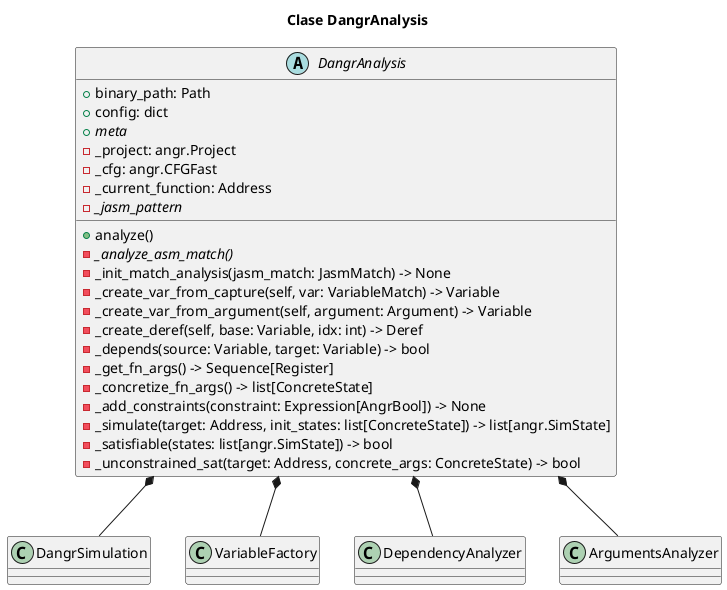
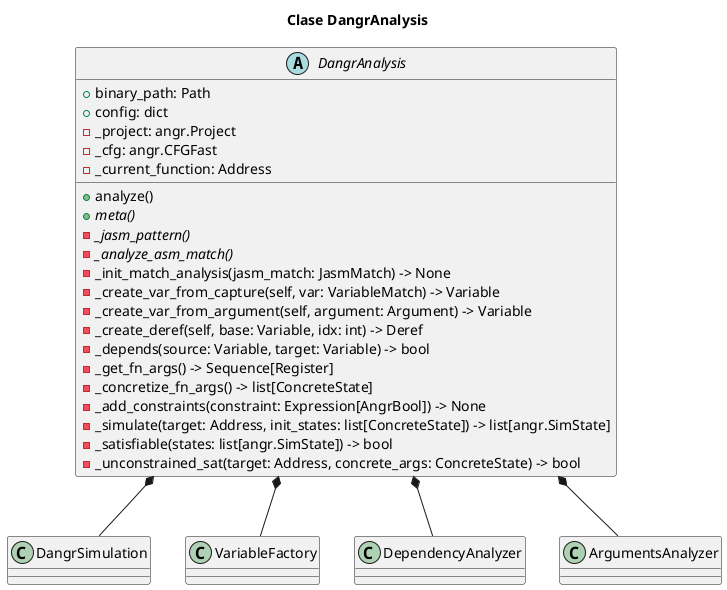
Remove property decorator from jasm_pattern and metadata

Changed region(s): [[0.0908, 0.2136, 0.3934, 0.4271]]

diff --git a/dangr_rt/dangr_rt/dangr_analysis.py b/dangr_rt/dangr_rt/dangr_analysis.py
@@ -197,12 +197,10 @@ class DangrAnalysis(ABC): # pylint: disable=too-many-instance-attributes
         """
         return self._dependency_analyzer.check_dependency(source, target)
 
-    @property
     @abstractmethod
     def _jasm_pattern(self) -> dict:
         pass
 
-    @property
     @abstractmethod
     def meta(self) -> dict:
         pass
@@ -211,7 +209,7 @@ class DangrAnalysis(ABC): # pylint: disable=too-many-instance-attributes
         """
         Template method that performs the analysis given a jasm pattern 
         """
-        jasm_matches = JasmAPI().run(self.binary_path, self._jasm_pattern)
+        jasm_matches = JasmAPI().run(self.binary_path, self._jasm_pattern())
 
         for jasm_match in jasm_matches:
             self._init_match_analysis(jasm_match)

diff --git a/dangr_rt/tests/test_dangr_sw_breakpoint.py b/dangr_rt/tests/test_dangr_sw_breakpoint.py
@@ -48,13 +48,11 @@ class SoftwareBreakpoint(DangrAnalysis):
         super().__init__(binary_path, config)
         self.jasm_pattern = jasm_pattern
 
-    @property
     @override
     def _jasm_pattern(self) -> dict:
         return {'pattern': self.jasm_pattern}
 
 
-    @property
     @override
     def meta(self) -> dict:
         return {}

diff --git a/dangr_rt/tests/test_dangr_hw_breakpoint.py b/dangr_rt/tests/test_dangr_hw_breakpoint.py
@@ -23,12 +23,10 @@ class HardwareBreakpoint(DangrAnalysis):
         super().__init__(binary_path, config)
         self.jasm_pattern = jasm_pattern
 
-    @property
     @override
     def _jasm_pattern(self) -> dict:
         return {'pattern': self.jasm_pattern}
 
-    @property
     @override
     def meta(self) -> dict:
         return {}

diff --git a/dangr_rt/tests/test_dangr_uncontrolled_input.py b/dangr_rt/tests/test_dangr_uncontrolled_input.py
@@ -47,12 +47,10 @@ class UncontrolledInput(DangrAnalysis):
         super().__init__(binary_path, config)
         self.jasm_pattern = jasm_pattern
 
-    @property
     @override
     def _jasm_pattern(self) -> dict:
         return {'pattern': self.jasm_pattern}
 
-    @property
     @override
     def meta(self) -> dict:
         return {}

diff --git a/dangr_rt/tests/test_dangr_alloc_zero.py b/dangr_rt/tests/test_dangr_alloc_zero.py
@@ -34,12 +34,10 @@ class AllocZero(DangrAnalysis):
         super().__init__(binary_path, config)
         self.jasm_pattern = jasm_pattern
 
-    @property
     @override
     def _jasm_pattern(self) -> dict:
         return {'pattern': self.jasm_pattern}
 
-    @property
     @override
     def meta(self) -> dict:
         return {}

diff --git a/dangr_c/test_files/alloc_zero.py b/dangr_c/test_files/alloc_zero.py
@@ -16,12 +16,10 @@ from dangr_rt import *
 class Rule(DangrAnalysis):
 
     @override
-    @property
     def _jasm_pattern(self) -> dict:
         return {'pattern': 'mock small_bmp_support_lib_12c5'}
 
     @override
-    @property
     def meta(self) -> dict:
         return {}
 

diff --git a/dangr_c/test_files/uncontrolled_usr_input.py b/dangr_c/test_files/uncontrolled_usr_input.py
@@ -16,12 +16,10 @@ from dangr_rt import *
 class Rule(DangrAnalysis):
 
     @override
-    @property
     def _jasm_pattern(self) -> dict:
         return {'pattern': 'mock uncontrolled_input_0078'}
 
     @override
-    @property
     def meta(self) -> dict:
         return {}
 

diff --git a/dangr_c/test_files/software_breakpoint.py b/dangr_c/test_files/software_breakpoint.py
@@ -16,12 +16,10 @@ from dangr_rt import *
 class Rule(DangrAnalysis):
 
     @override
-    @property
     def _jasm_pattern(self) -> dict:
         return {'pattern': 'software_breakpoint_pattern'}
 
     @override
-    @property
     def meta(self) -> dict:
         return {}
 

diff --git a/dangr_c/test_files/hardware_breakpoint.py b/dangr_c/test_files/hardware_breakpoint.py
@@ -16,12 +16,10 @@ from dangr_rt import *
 class Rule(DangrAnalysis):
 
     @override
-    @property
     def _jasm_pattern(self) -> dict:
         return {'pattern': 'mock hardware_breakpoint'}
 
     @override
-    @property
     def meta(self) -> dict:
         return {}
 
